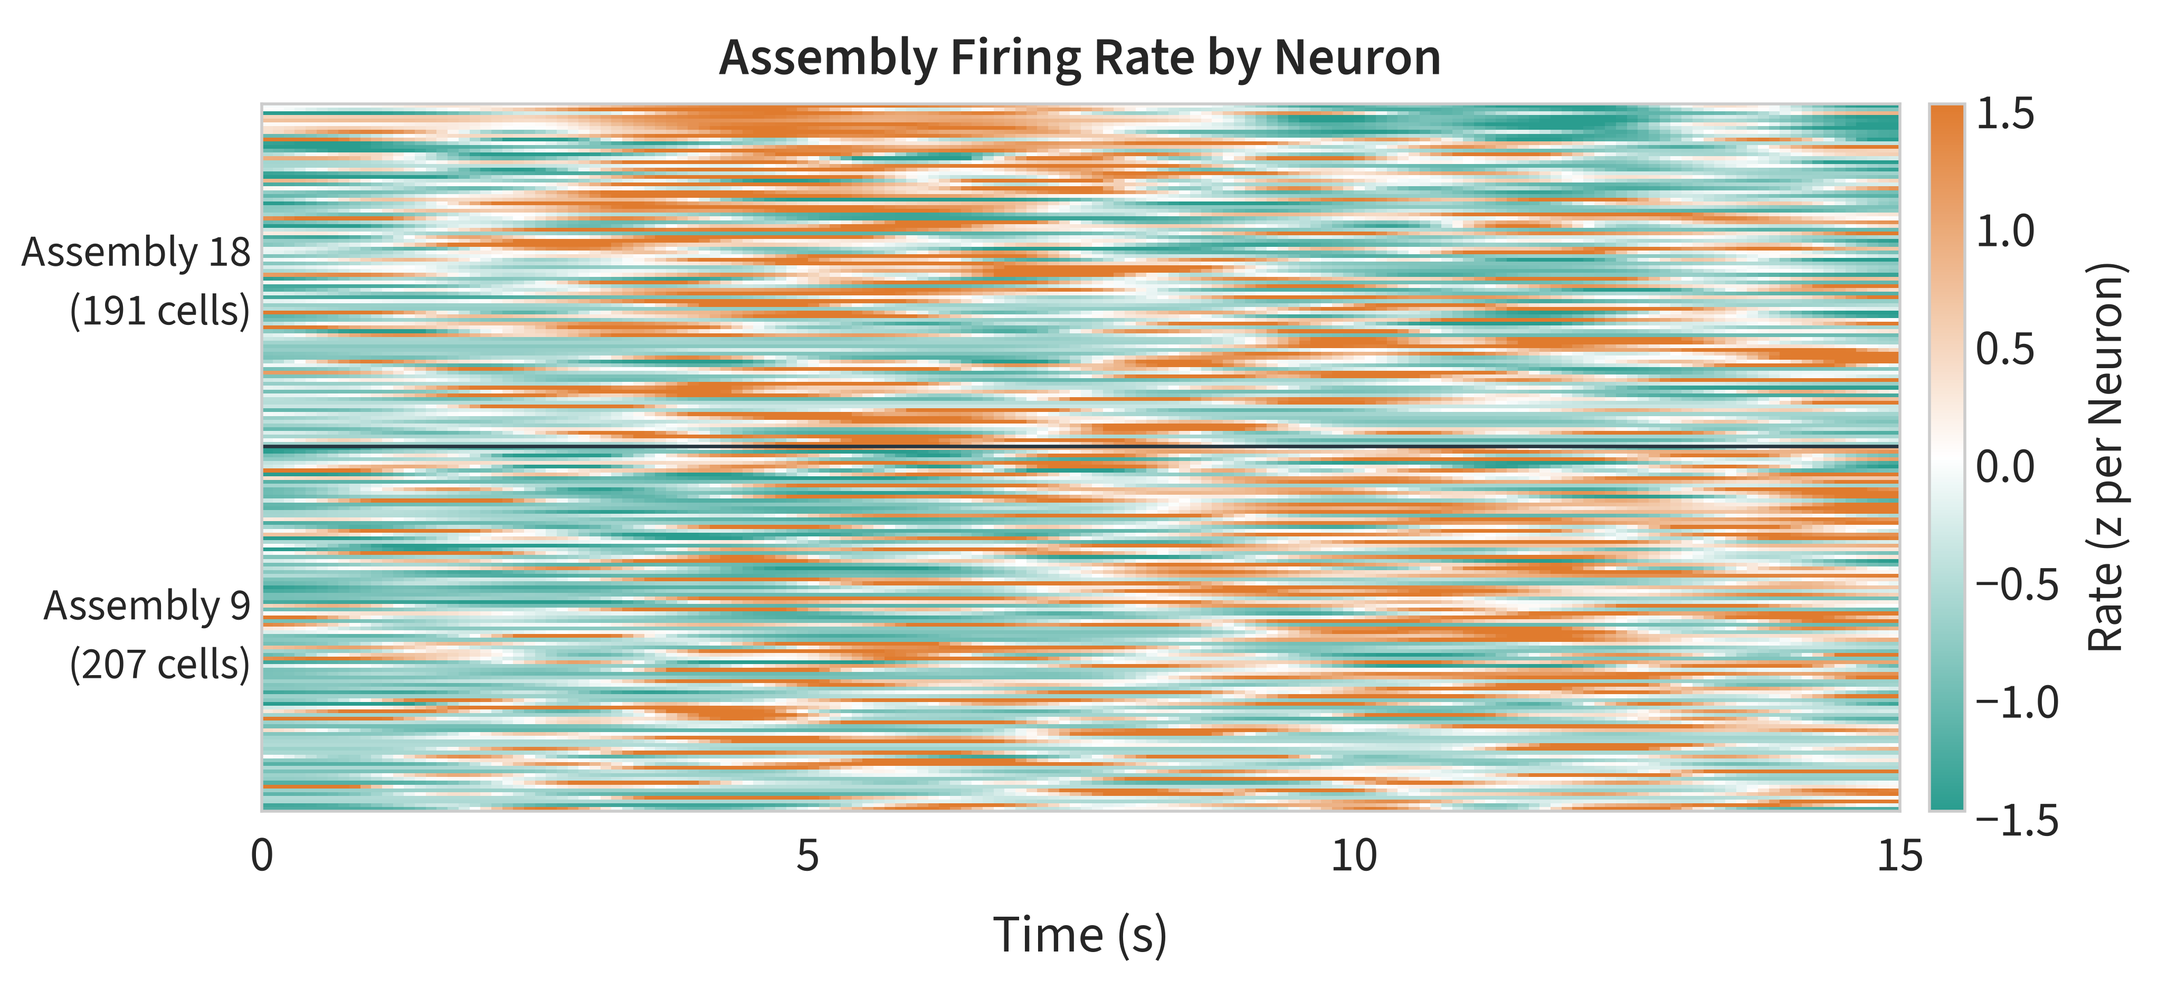
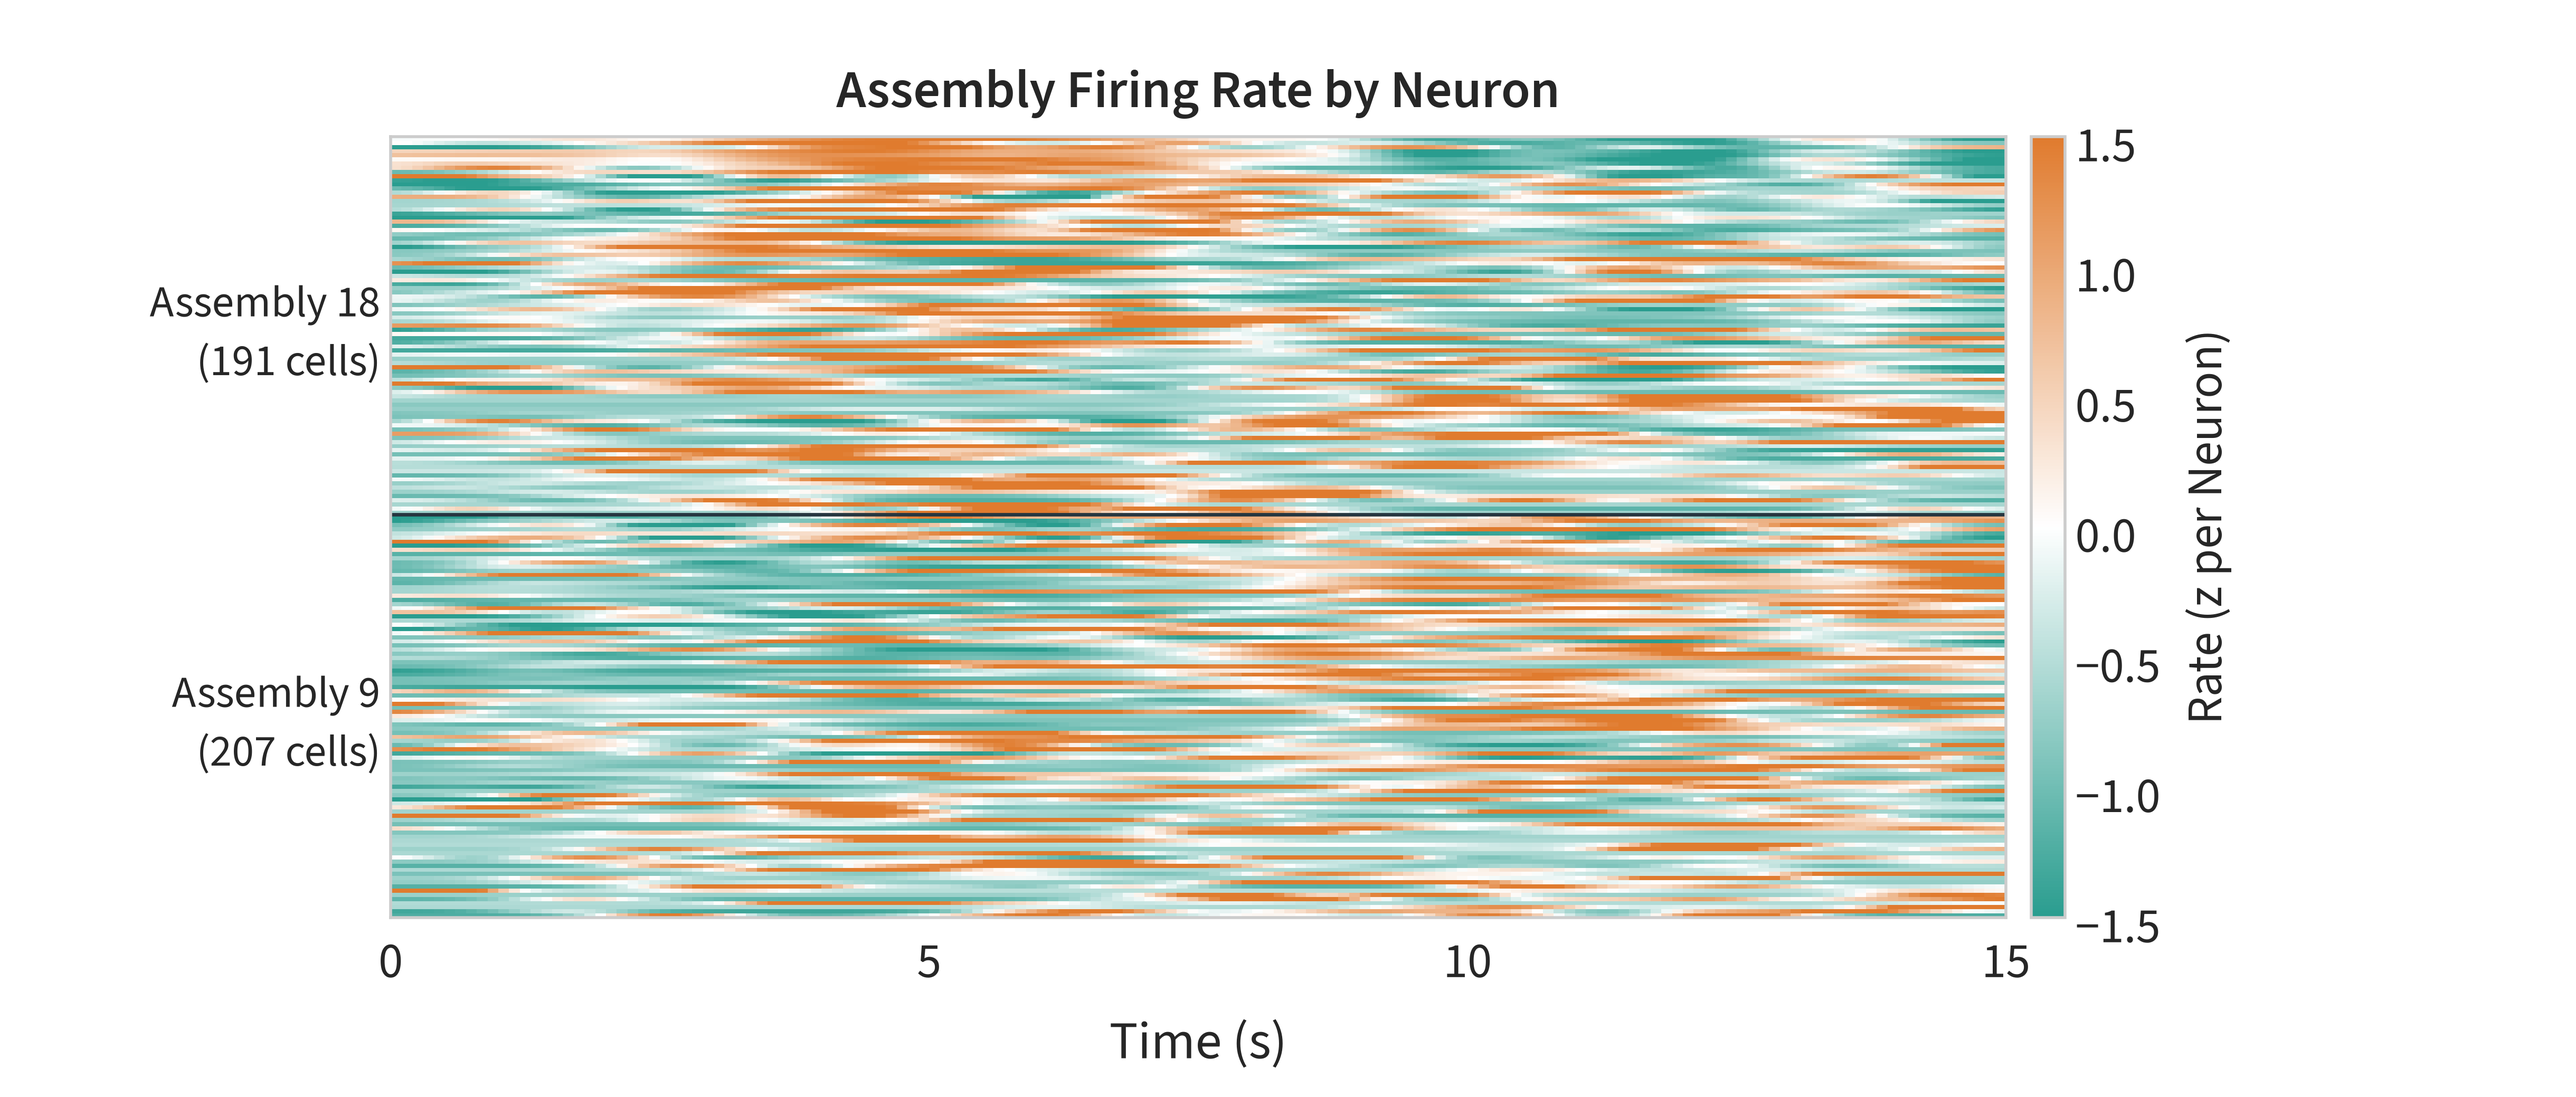
:art: One geometry for fig00 a, c and f: matching text and a shared time axis

diff --git a/fig00-teacher-activity/figures.py b/fig00-teacher-activity/figures.py
@@ -35,6 +35,7 @@ import matplotlib.pyplot as plt
 import numpy as np
 import pandas as pd
 from matplotlib.colors import LinearSegmentedColormap
+from matplotlib.lines import Line2D
 from matplotlib.ticker import MultipleLocator
 from scipy.ndimage import gaussian_filter1d
 
@@ -47,12 +48,10 @@ from common.style import (
     EXCITATORY,
     INHIBITORY,
     INK,
-    PAIR,
     REFERENCE_GREY,
     SINGLE,
     TEACHER,
     TICK_SIZE,
-    WIDE,
     apply_style,
     clear_panels,
     save,
@@ -122,6 +121,48 @@ def symmetric_limit(values, percentile=99.5):
     """Current limits from a percentile, so one transient cannot own the axis."""
     limit = nice_limit(np.percentile(np.abs(values), percentile))
     return -limit, limit
+
+
+#: Panels (a), (c) and (f) are laid out in absolute inches on one canvas width, so that
+#: dropped on a slide at the same size their text comes out the same size (2026-09-24).
+#: Before this (a) was 6.5 in wide against 11 in for the other two, and scaling them to
+#: match on screen scaled (a)'s type up by a factor of 1.7.
+#: The right band holds the rastermap's colourbar and stays empty on the others, and the
+#: left margin fits the widest y label, so (a) and (f) share an axes box exactly and can
+#: be stacked one under the other on the same time axis.
+PANEL_WIDTH = 12.0
+PANEL_MARGIN_LEFT = 1.75
+#: Wide enough for (c)'s per-row legends, which sit outside their axes; on (a) and
+#: (f) the band holds the colourbar or nothing at all.
+PANEL_MARGIN_RIGHT = 2.6
+PANEL_AXES_WIDTH = PANEL_WIDTH - PANEL_MARGIN_LEFT - PANEL_MARGIN_RIGHT
+#: (a) and (f) share this height as well, so the stacked pair is two equal bands.
+PANEL_HEIGHT = 5.0
+PANEL_MARGIN_BOTTOM = 0.75
+PANEL_MARGIN_TOP = 0.55
+#: (c) stacks three rows, so it keeps its own height at the shared width.
+TRACE_PANEL_HEIGHT = 7.0
+
+
+def panel_layout(fig, height=PANEL_HEIGHT):
+    """Place the axes in inches and pin the canvas, so every panel crops identically.
+
+    The invisible full-width line defeats ``bbox_inches="tight"``: without it a panel
+    with narrow y labels would be cropped tighter than one with wide labels, and the two
+    would no longer line up when stacked.
+    """
+    fig.subplots_adjust(
+        left=PANEL_MARGIN_LEFT / PANEL_WIDTH,
+        right=1 - PANEL_MARGIN_RIGHT / PANEL_WIDTH,
+        bottom=PANEL_MARGIN_BOTTOM / height,
+        top=1 - PANEL_MARGIN_TOP / height,
+    )
+    fig.add_artist(
+        Line2D([0.0, 1.0], [0.0, 0.0], transform=fig.transFigure, color="none")
+    )
+    fig.add_artist(
+        Line2D([0.0, 1.0], [1.0, 1.0], transform=fig.transFigure, color="none")
+    )
 
 
 def assembly_colors(n):
@@ -203,7 +244,9 @@ def neuron_traces(data):
     current = -data["current_pa"][window]
     conductance = data["conductance_ns"][window]
     threshold = float(data["threshold_mv"])
-    fig, axes = plt.subplots(3, 1, figsize=(PAIR[0], PAIR[1] * 1.35), sharex=True)
+    fig, axes = plt.subplots(
+        3, 1, figsize=(PANEL_WIDTH, TRACE_PANEL_HEIGHT), sharex=True
+    )
 
     axes[0].plot(
         time_s,
@@ -273,7 +316,10 @@ def neuron_traces(data):
     # at the 98th percentile of everything, as the library's dashboard cuts it.
     axes[2].set_ylim(0, nice_limit(np.percentile(conductance, 98)))
     trace_legend(axes[2])
+    # tight_layout first (it packs the three rows), then the shared margins on top, so
+    # (c) carries the same left edge and canvas width as (a) and (f).
     fig.tight_layout()
+    panel_layout(fig, height=TRACE_PANEL_HEIGHT)
     fig.align_ylabels(axes)  # one left edge for all three y labels
     return fig
 
@@ -295,7 +341,7 @@ def assembly_series(data, key, y_label, title, label="Input", legend_loc="upper 
     The dominant odourant's own line is drawn heavier in both assembly panels, so the eye
     can follow one colour from the stimulus to the response.
     """
-    fig, ax = plt.subplots(figsize=SINGLE)
+    fig, ax = plt.subplots(figsize=(PANEL_WIDTH, PANEL_HEIGHT))
     colors = assembly_colors(data["assembly"].size)
     dominant = [int(k) for k in np.atleast_1d(data["dominant"])]
     for column in range(data["assembly"].size):
@@ -334,7 +380,7 @@ def assembly_series(data, key, y_label, title, label="Input", legend_loc="upper 
     ax.set_xlabel("Time (s)")
     ax.set_ylabel(y_label)
     ax.set_title(title)
-    fig.tight_layout()
+    panel_layout(fig)
     return fig
 
 
@@ -490,7 +536,7 @@ def assembly_rastermap(data):
         rate.std(axis=1, keepdims=True) + 1e-6
     )
 
-    fig, ax = plt.subplots(figsize=(WIDE[0], WIDE[1] * 1.4))
+    fig, ax = plt.subplots(figsize=(PANEL_WIDTH, PANEL_HEIGHT))
     image = ax.imshow(
         z,
         aspect="auto",
@@ -517,9 +563,21 @@ def assembly_rastermap(data):
     ax.xaxis.set_major_locator(MultipleLocator(RASTER_TICK_S))
     ax.set_xlabel("Time (s)")
     ax.set_title("Assembly Firing Rate by Neuron")
-    bar = fig.colorbar(image, ax=ax, pad=0.015)
+    # In the reserved right band, added by hand so the axes keeps its full width: a
+    # colorbar taken out of the axes would make (f) narrower than (a).
+    bar = fig.colorbar(
+        image,
+        cax=fig.add_axes(
+            [
+                (PANEL_MARGIN_LEFT + PANEL_AXES_WIDTH + 0.12) / PANEL_WIDTH,
+                PANEL_MARGIN_BOTTOM / PANEL_HEIGHT,
+                0.16 / PANEL_WIDTH,
+                1 - (PANEL_MARGIN_BOTTOM + PANEL_MARGIN_TOP) / PANEL_HEIGHT,
+            ]
+        ),
+    )
     bar.set_label("Rate (z per Neuron)", fontsize=TICK_SIZE)
-    fig.tight_layout()
+    panel_layout(fig)
     return fig
 
 
